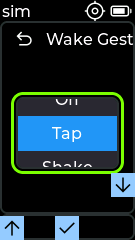
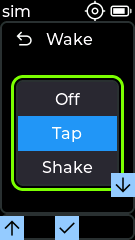
fix(ui): stabilize narrow gesture pages

Changed region(s): [[0.0593, 0.2917, 0.9185, 0.4375], [0.0593, 0.6708, 0.9185, 0.8167], [0.7111, 0.1167, 0.9778, 0.2042]]

diff --git a/src/FurbleUI.cpp b/src/FurbleUI.cpp
@@ -1554,7 +1554,10 @@ lv_obj_t *UI::addMenuItem(const menu_t &menu,
     } else {
       lv_obj_set_width(label, LV_PCT(100));
     }
-    lv_label_set_long_mode(label, LV_LABEL_LONG_SCROLL_CIRCULAR);
+    // Menu titles use deterministic left-aligned clipping instead of a moving
+    // marquee; this keeps the beginning readable on narrow panels and stable in
+    // captures.
+    lv_label_set_long_mode(label, LV_LABEL_LONG_CLIP);
     lv_obj_add_flag(cont, LV_OBJ_FLAG_CLICKABLE);
     lv_obj_add_flag(cont, LV_OBJ_FLAG_SCROLL_ON_FOCUS);
     lv_obj_add_flag(cont, LV_OBJ_FLAG_STATE_TRICKLE);
@@ -1567,6 +1570,12 @@ lv_obj_t *UI::addMenuItem(const menu_t &menu,
 void UI::addSettingItem(lv_obj_t *page, const char *symbol, Settings::type_t setting) {
   lv_obj_t *obj = lv_menu_cont_create(page);
   lv_obj_set_flex_flow(obj, LV_FLEX_FLOW_ROW_WRAP);
+
+  // Give the long gesture label its own line. Keeping the switch beside it
+  // leaves too little width on 135x240 and causes ugly character-level wraps.
+  if (setting == Settings::IMU_TRIG) {
+    lv_obj_set_flex_flow(obj, LV_FLEX_FLOW_COLUMN);
+  }
 
   if (symbol) {
     lv_obj_t *icon = lv_image_create(obj);
@@ -1581,6 +1590,9 @@ void UI::addSettingItem(lv_obj_t *page, const char *symbol, Settings::type_t set
   // on narrow panels. A circular marquee can capture midway through a label and
   // leave its first characters clipped; wrapping preserves the whole name.
   lv_label_set_long_mode(label, LV_LABEL_LONG_WRAP);
+  if (setting == Settings::IMU_TRIG) {
+    lv_obj_set_width(label, LV_PCT(100));
+  }
   lv_obj_set_flex_grow(label, 1);
 
   lv_obj_t *sw = lv_switch_create(obj);
@@ -5780,7 +5792,18 @@ void UI::addSensorsMenu(const menu_t &parent) {
 }
 
 void UI::addWakeGestureMenu(const menu_t &parent) {
+#if defined(FURBLE_M5STICKS3) || defined(FURBLE_M5STICKC)
+  // The page header has only about 80 px between the back button and status
+  // icons on the narrow panels. Keep it fully readable; the Sensors row and
+  // walkthrough provide the complete feature name.
+  constexpr const char *wakeTitle = "Wake";
+#else
+  constexpr const char *wakeTitle = nullptr;
+#endif
   menu_t &menu = addMenu(m_WakeGestureStr, NULL, true, parent);
+#if defined(FURBLE_M5STICKS3) || defined(FURBLE_M5STICKC)
+  lv_menu_set_page_title(menu.page, wakeTitle);
+#endif
   m_IMUGestureWidgets.push_back(menu.button);
 
   lv_obj_t *cont = lv_menu_cont_create(menu.page);
@@ -5794,9 +5817,10 @@ void UI::addWakeGestureMenu(const menu_t &parent) {
 #if !defined(FURBLE_M5COREX)
   lv_obj_set_width(roller, LV_PCT(90));
 #endif
-  lv_obj_add_flag(roller, LV_OBJ_FLAG_SCROLL_ON_FOCUS);
+  // The page itself is already vertically constrained; auto-scrolling the page
+  // to the focused roller leaves captures and encoder entry at arbitrary offsets.
   lv_roller_set_options(roller, m_WakeGestureOptions, LV_ROLLER_MODE_NORMAL);
-  lv_roller_set_visible_row_count(roller, 2);
+  lv_roller_set_visible_row_count(roller, 3);
 
   uint8_t wake = Settings::load<Settings::IMU_WAKE>();
   if (wake > 3) {
